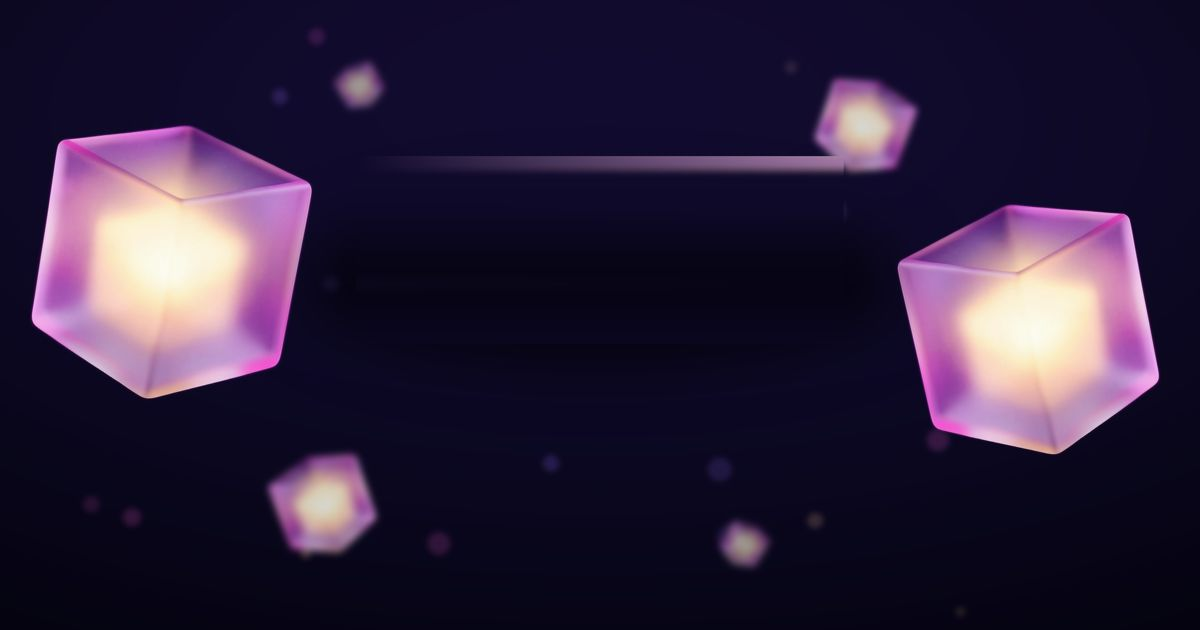
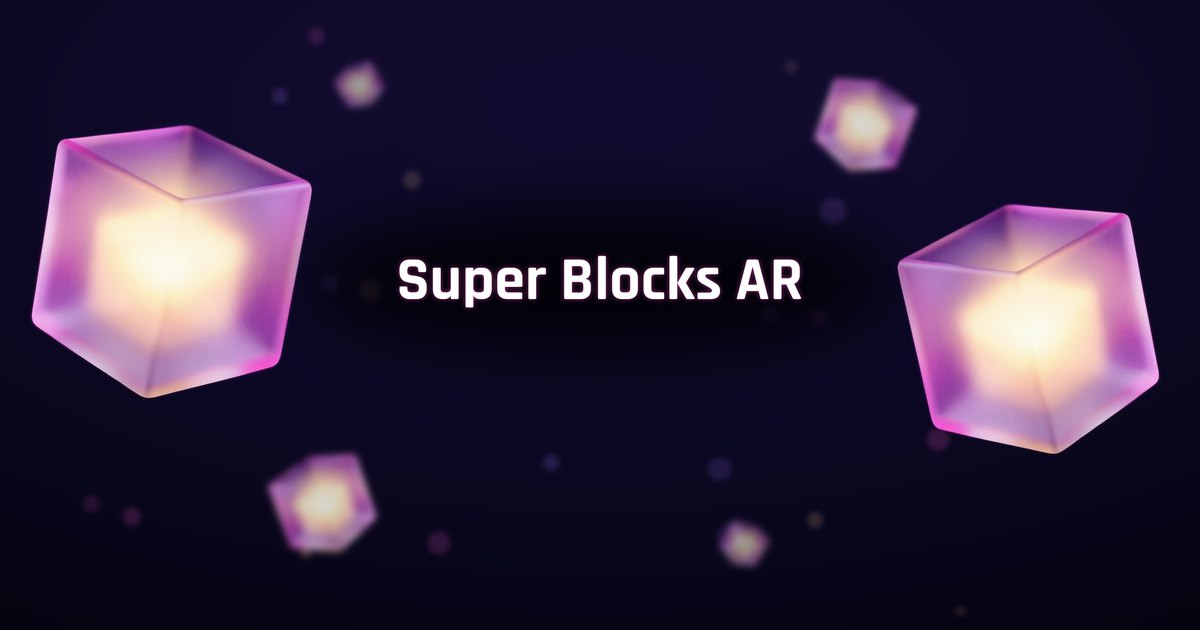
Link previews: og:url, canonical, hreflang, site name, image alt; og.jpg with typeset title and no painted-out artefacts
Claude-Session: https://claude.ai/code/session_01YVwGJwDijtPmbLCvfqRWqB

Changed region(s): [[0.3083, 0.3921, 0.6783, 0.4825], [0.37, 0.2413, 0.7092, 0.3619], [0.3392, 0.2714, 0.37, 0.3016]]

diff --git a/pl/press.html b/pl/press.html
@@ -13,6 +13,14 @@
 <meta property="og:image:width" content="1200">
 <meta property="og:image:height" content="630">
 <meta property="og:locale" content="pl_PL">
+<link rel="canonical" href="https://mczard.github.io/superblocksar/pl/press.html">
+<link rel="alternate" hreflang="en" href="https://mczard.github.io/superblocksar/press.html">
+<link rel="alternate" hreflang="pl" href="https://mczard.github.io/superblocksar/pl/press.html">
+<link rel="alternate" hreflang="x-default" href="https://mczard.github.io/superblocksar/press.html">
+<meta property="og:url" content="https://mczard.github.io/superblocksar/pl/press.html">
+<meta property="og:site_name" content="Super Blocks AR">
+<meta property="og:locale:alternate" content="en_US">
+<meta property="og:image:alt" content="Dwie świecące szklane kostki wokół tytułu Super Blocks AR">
 <meta name="twitter:card" content="summary_large_image">
 <link rel="icon" type="image/png" sizes="48x48" href="../assets/favicon.png">
 <link rel="apple-touch-icon" href="../assets/icon-192.png">

diff --git a/press.html b/press.html
@@ -13,6 +13,14 @@
 <meta property="og:image:width" content="1200">
 <meta property="og:image:height" content="630">
 <meta property="og:locale" content="en_US">
+<link rel="canonical" href="https://mczard.github.io/superblocksar/press.html">
+<link rel="alternate" hreflang="en" href="https://mczard.github.io/superblocksar/press.html">
+<link rel="alternate" hreflang="pl" href="https://mczard.github.io/superblocksar/pl/press.html">
+<link rel="alternate" hreflang="x-default" href="https://mczard.github.io/superblocksar/press.html">
+<meta property="og:url" content="https://mczard.github.io/superblocksar/press.html">
+<meta property="og:site_name" content="Super Blocks AR">
+<meta property="og:locale:alternate" content="pl_PL">
+<meta property="og:image:alt" content="Two glowing glass cubes around the title Super Blocks AR">
 <meta name="twitter:card" content="summary_large_image">
 <link rel="icon" type="image/png" sizes="48x48" href="assets/favicon.png">
 <link rel="apple-touch-icon" href="assets/icon-192.png">

diff --git a/pl/index.html b/pl/index.html
@@ -13,6 +13,14 @@
 <meta property="og:image:width" content="1200">
 <meta property="og:image:height" content="630">
 <meta property="og:locale" content="pl_PL">
+<link rel="canonical" href="https://mczard.github.io/superblocksar/pl/">
+<link rel="alternate" hreflang="en" href="https://mczard.github.io/superblocksar/">
+<link rel="alternate" hreflang="pl" href="https://mczard.github.io/superblocksar/pl/">
+<link rel="alternate" hreflang="x-default" href="https://mczard.github.io/superblocksar/">
+<meta property="og:url" content="https://mczard.github.io/superblocksar/pl/">
+<meta property="og:site_name" content="Super Blocks AR">
+<meta property="og:locale:alternate" content="en_US">
+<meta property="og:image:alt" content="Dwie świecące szklane kostki wokół tytułu Super Blocks AR">
 <meta name="twitter:card" content="summary_large_image">
 <link rel="icon" type="image/png" sizes="48x48" href="../assets/favicon.png">
 <link rel="apple-touch-icon" href="../assets/icon-192.png">

diff --git a/index.html b/index.html
@@ -13,6 +13,14 @@
 <meta property="og:image:width" content="1200">
 <meta property="og:image:height" content="630">
 <meta property="og:locale" content="en_US">
+<link rel="canonical" href="https://mczard.github.io/superblocksar/">
+<link rel="alternate" hreflang="en" href="https://mczard.github.io/superblocksar/">
+<link rel="alternate" hreflang="pl" href="https://mczard.github.io/superblocksar/pl/">
+<link rel="alternate" hreflang="x-default" href="https://mczard.github.io/superblocksar/">
+<meta property="og:url" content="https://mczard.github.io/superblocksar/">
+<meta property="og:site_name" content="Super Blocks AR">
+<meta property="og:locale:alternate" content="pl_PL">
+<meta property="og:image:alt" content="Two glowing glass cubes around the title Super Blocks AR">
 <meta name="twitter:card" content="summary_large_image">
 <link rel="icon" type="image/png" sizes="48x48" href="assets/favicon.png">
 <link rel="apple-touch-icon" href="assets/icon-192.png">
